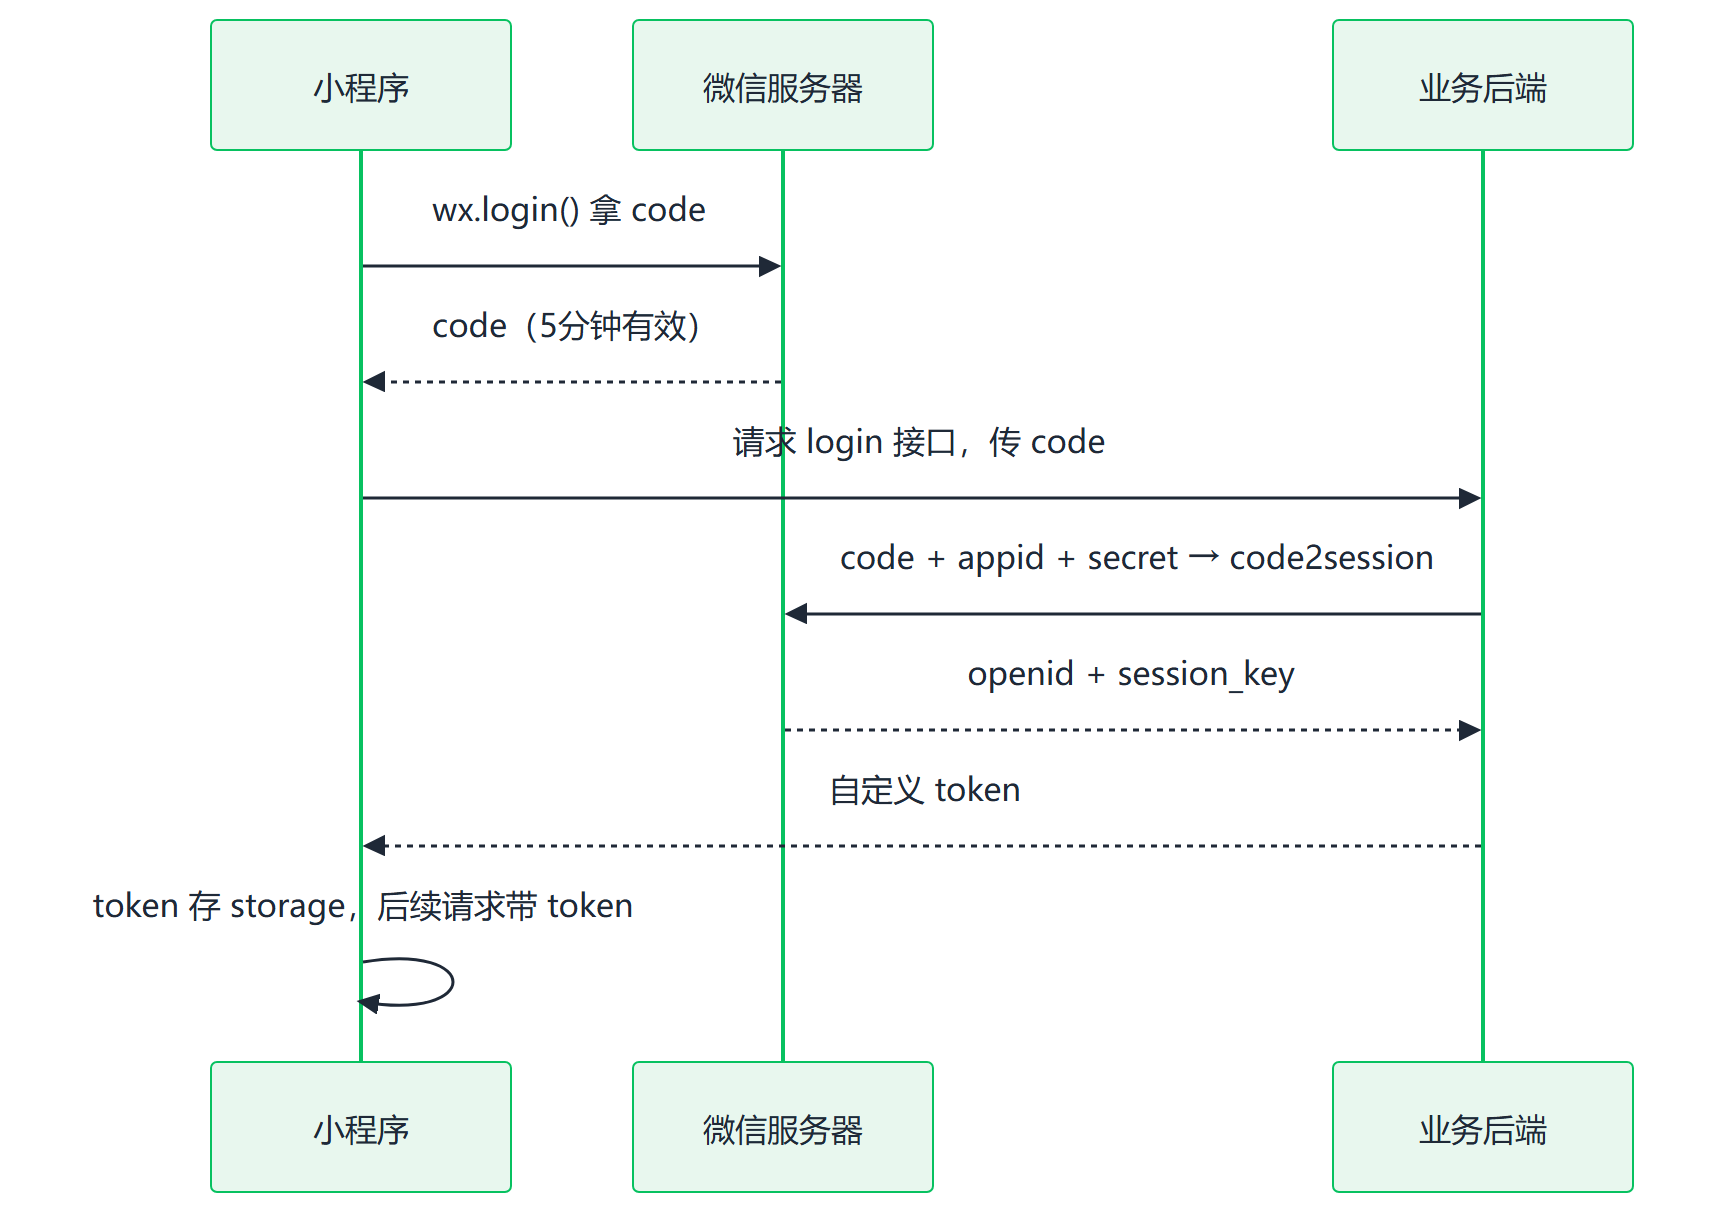
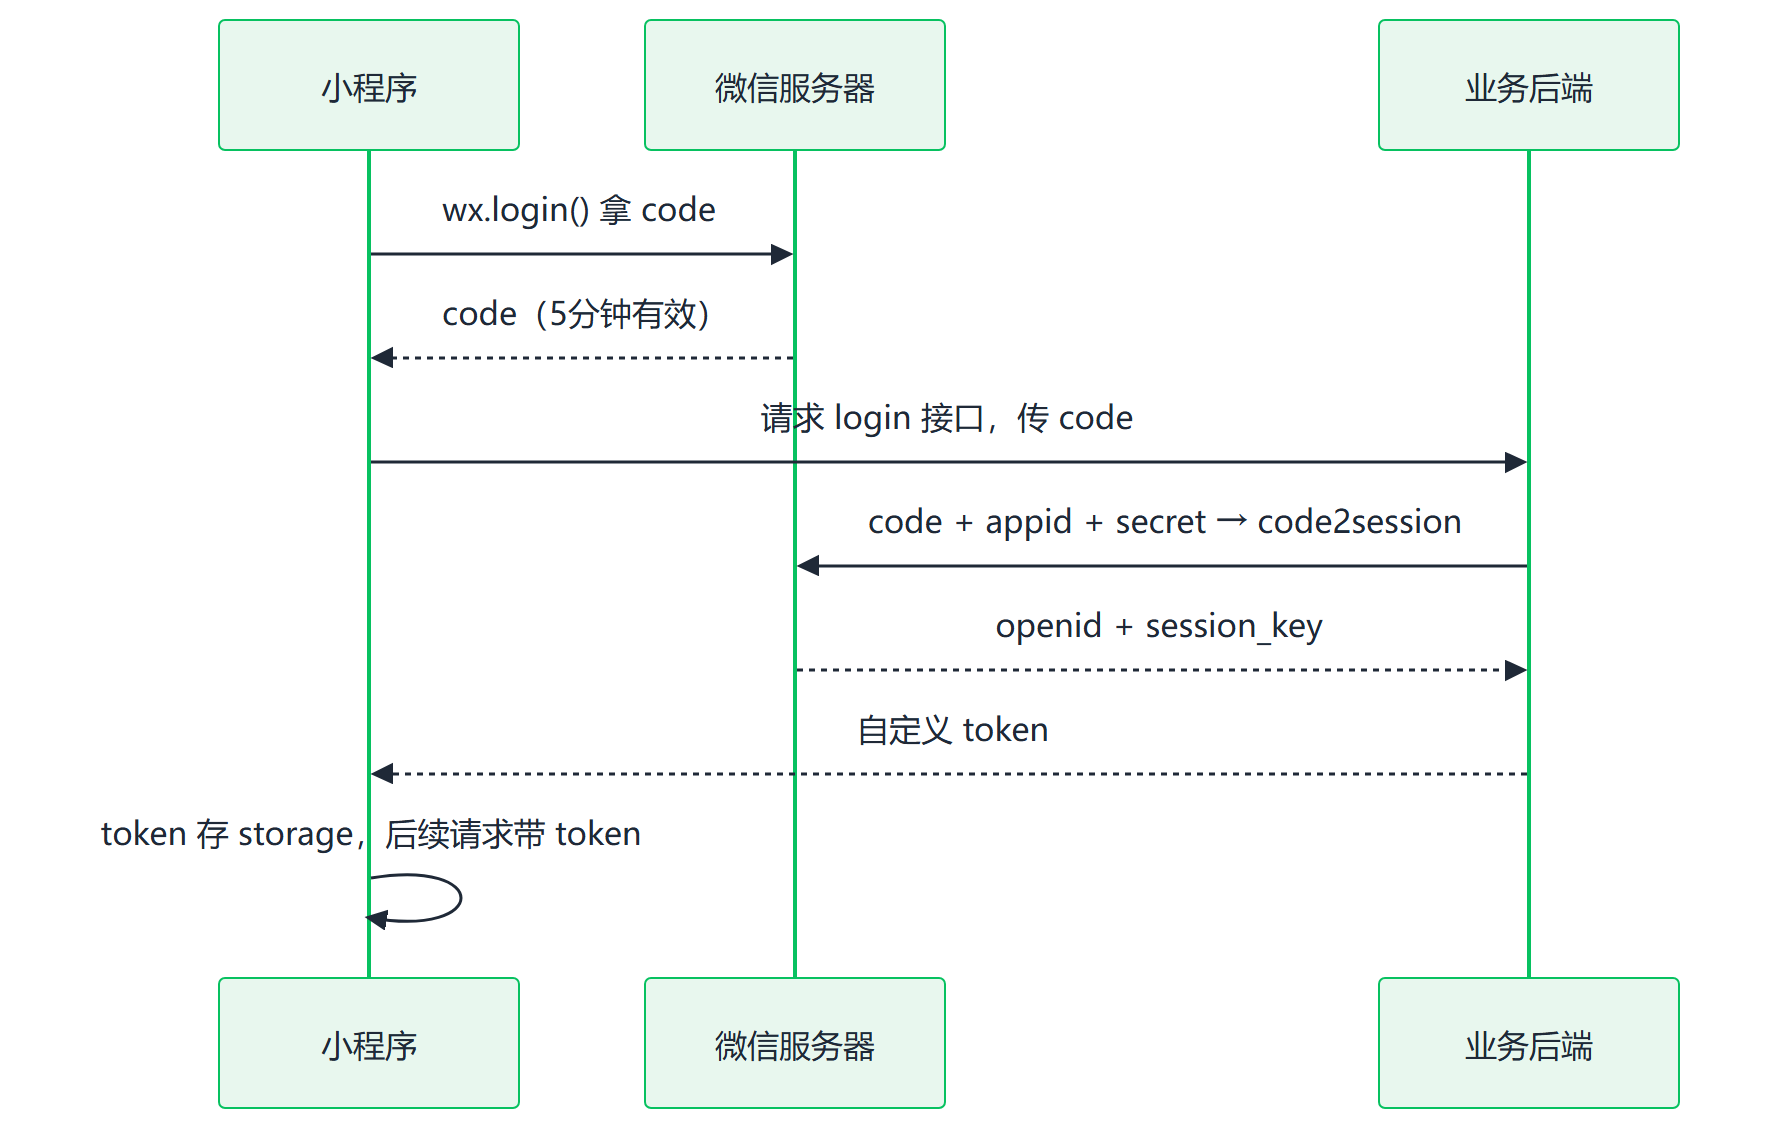
fix: Mermaid 测量字体钉到根级 fontFamily——修 CI 时序图布局漂移

diff --git a/tools/test_gen_mermaid.py b/tools/test_gen_mermaid.py
@@ -117,12 +117,15 @@ class ConfigTest(unittest.TestCase):
     def test_mermaid_主题与字体固定(self):
         self.assertEqual(gm.MERMAID_CONFIG["theme"], "base")
         font = gm.MERMAID_CONFIG["themeVariables"]["fontFamily"]
+        self.assertEqual(font, gm.FONT_FAMILY)
         self.assertIn("Microsoft YaHei", font)
         self.assertFalse(gm.MERMAID_CONFIG["flowchart"]["htmlLabels"])
-        # 时序图的测量字体默认是 trebuchet/verdana/arial 与 Open Sans，
-        # 不是主题字体；runner 上这些字体的可用性不同会让布局漂移。
+        # 时序图 renderer 的 setConf 收到的是根配置：根级 fontFamily 会把
+        # actor/message/note 三个测量字体一起覆盖，sequence.* 下的同名配置
+        # 是死字段。测量字体必须钉在根级，否则又退回 Trebuchet/Verdana 栈。
+        self.assertEqual(gm.MERMAID_CONFIG["fontFamily"], gm.FONT_FAMILY)
         for key in ("actorFontFamily", "noteFontFamily", "messageFontFamily"):
-            self.assertEqual(gm.MERMAID_CONFIG["sequence"][key], font)
+            self.assertNotIn(key, gm.MERMAID_CONFIG["sequence"])
         config_text = json.dumps(gm.MERMAID_CONFIG).lower()
         self.assertNotIn("trebuchet", config_text)
         self.assertNotIn("open sans", config_text)

diff --git a/tools/test_mutations.py b/tools/test_mutations.py
@@ -360,15 +360,21 @@ MUTATIONS = [
     ),
     (
         "gen_mermaid.py",
-        "时序图消息测量退回 Trebuchet/Verdana 默认栈（runner 缺字体即漂移）",
-        "        \"messageFontFamily\": FONT_FAMILY,",
-        "        \"messageFontFamily\": '\"trebuchet ms\", verdana, arial, sans-serif',",
+        "根级测量字体缺失（时序图退回 Trebuchet/Verdana 默认栈，runner 缺字体即漂移）",
+        '    "fontFamily": FONT_FAMILY,\n',
+        "",
     ),
     (
         "gen_mermaid.py",
-        "时序图角色测量退回 Open Sans 默认栈（runner 字体不同即漂移）",
-        "        \"actorFontFamily\": FONT_FAMILY,",
-        "        \"actorFontFamily\": '\"Open Sans\", sans-serif',",
+        "根级测量字体改成固定 Arial（字体栈被绕开时毫无察觉）",
+        '    "fontFamily": FONT_FAMILY,',
+        '    "fontFamily": "Arial",',
+    ),
+    (
+        "gen_mermaid.py",
+        "测量字体放回 sequence 死字段（被根 fontFamily 覆盖，等于没钉）",
+        '    "sequence": {"useMaxWidth": False},',
+        '    "sequence": {"useMaxWidth": False, "messageFontFamily": FONT_FAMILY},',
     ),
     (
         "gen_mermaid.py",

diff --git a/tools/gen_mermaid.py b/tools/gen_mermaid.py
@@ -67,6 +67,10 @@ FONT_FAMILY = ("Microsoft YaHei, PingFang SC, Noto Sans CJK SC, "
                "sans-serif")
 MERMAID_CONFIG = {
     "theme": "base",
+    # 时序图的测量字体取自根级 fontFamily：renderer 的 setConf 收到的是根
+    # 配置，会把 sequence.actorFontFamily 等三个字段整体覆盖。放在根级，
+    # 时序图与流程图才共用同一份固定字体栈。
+    "fontFamily": FONT_FAMILY,
     "themeVariables": {
         "fontFamily": FONT_FAMILY,
         "fontSize": "16px",
@@ -78,14 +82,7 @@ MERMAID_CONFIG = {
         "tertiaryColor": "#FFFFFF",
     },
     "flowchart": {"htmlLabels": False, "curve": "basis"},
-    "sequence": {
-        "useMaxWidth": False,
-        # 时序图的测量字体默认是 Trebuchet MS / Verdana / Arial 与
-        # Open Sans；runner 上这些字体的可用性不同，布局会跟着漂移。
-        "actorFontFamily": FONT_FAMILY,
-        "noteFontFamily": FONT_FAMILY,
-        "messageFontFamily": FONT_FAMILY,
-    },
+    "sequence": {"useMaxWidth": False},
 }
 
 

diff --git a/CHANGELOG.md b/CHANGELOG.md
@@ -28,7 +28,7 @@
 - **视频编码跨 CPU 不确定（CI assets 作业红了一个月的另一半根因）**：libx264 默认按 CPU 特性派发 SIMD，CI runner 与开发机编出不同字节，`video-03/04/06` 自 v2.4.3 起每次比对都被误报「仓库里的是旧版本」。编码参数补 `-x264-params cpu-independent=1`（走纯 C，实测与 `noasm=1` 逐字节相同、只慢 ~15%），13 集全量重渲入库；此后字节只由输入帧与参数决定
 - **Mermaid 生成在 Windows 管道下打印中断**：`gen_mermaid.py` 渲染完成后打印中文资产路径时，CI 的 PowerShell 管道按 cp1252 编码，抛 `UnicodeEncodeError` 并以非零码退出——35 分钟的 assets 作业在逐字节比对前中止。补上与其他工具一致的 stdout UTF-8 重设，并新增 cp1252 子进程回归测试与对应变异项（51/51 捕获）
 - **Mermaid 资产随浏览器版本漂移（CI assets 作业逐字节比对失败）**：同一份图源在本机 Edge 158 与 CI Edge 157 下渲染出的两张时序图 PNG 不同——资产是 157 的产物，CI 每次重渲都被判成「仓库里的是旧版本」。根因是渲染器跟着 runner 自带的浏览器走。现在 Mermaid 固定用 Chrome for Testing 157.0.8103.78——最初试锁的 .79 不在官方 known-good 清单里，`browsers install` 解析版本时直接 404，改用清单内的 .78 才能由 CI 自动安装。首次下载后又在解压阶段报 `Target directory is expected to be absolute`——`browsers install --path .browser` 是相对路径，本机因浏览器已装好只走版本校验，CI 的干净目录才触发；现在由 `tools/mermaid/install-browser.js` 用 `path.join(__dirname, ".browser")` 解析成绝对路径再交给 CLI。`tools/mermaid/package.json` 精确锁定 `@mermaid-js/mermaid-cli@11.4.2` / `mermaid@11.17.2` / `puppeteer@23.11.1`，`package-lock.json` 锁完整依赖树；`gen_mermaid.py` 直接调用本地 `node_modules` 里的 `mmdc`，不再经 `npx` 重新解析版本，运行时还会核对已安装版本与浏览器路径。PDF 打印继续用本机 Edge。新增 9 个用例（共 19）与 5 个变异项（共 51/51 捕获）
-- **Mermaid 布局仍随系统字体版本漂移（锁定 Chrome 后的真正根因）**：登录与支付两张时序图在 CI 仍被判成旧版本，只有发布流程图稳定。探针对比两端产物后确认雅黑文件哈希一致，但 runner 上 Trebuchet MS / Verdana 等字体的可用性与本机不同——时序图的测量字体默认是 `"trebuchet ms", verdana, arial, sans-serif` 与 `"Open Sans", sans-serif`，Mermaid 用它们量文字、再用主题字体绘制，标签换行与坐标因此两端不同。现在在 `MERMAID_CONFIG.sequence` 里把 `actorFontFamily` / `noteFontFamily` / `messageFontFamily` 显式钉到主题字体栈；另加 `tools/mermaid/pin_sans_serif.mjs`，由 `gen_mermaid.py` 通过 `node --import` 预加载，在页面建好后用 CDP `Page.setFontFamilies` 把通用 `sans-serif` 也映射到主题字体栈首个字体（雅黑），两条测量分支得到同一份度量。三张图已按新配置重渲入库。新增 3 个用例（共 22）与 5 个变异项（共 56/56 捕获）
+- **Mermaid 布局仍随系统字体版本漂移（锁定 Chrome 后的真正根因）**：登录与支付两张时序图在 CI 仍被判成旧版本，只有发布流程图稳定。探针对比两端产物后确认雅黑文件哈希一致，差异来自测量字体：runner 上 Trebuchet MS / Verdana / Open Sans 的可用性与本机不同，Mermaid 用它们量文字、再用主题字体绘制，标签换行与坐标因此两端不同。第一版修复把字体钉在 `MERMAID_CONFIG.sequence` 的 `actorFontFamily` / `noteFontFamily` / `messageFontFamily`，CI 仍红——时序图 renderer 的 `setConf` 收到的是**根配置**，只要根级 `fontFamily` 存在（默认就是 Trebuchet 栈）就会把这三个字段整体覆盖，sequence 下的同名配置是死字段。现在改为钉根级 `fontFamily`（与主题字体同一栈），sequence 只保留 `useMaxWidth`；另加 `tools/mermaid/pin_sans_serif.mjs`，由 `gen_mermaid.py` 通过 `node --import` 预加载，在页面建好后用 CDP `Page.setFontFamilies` 把通用 `sans-serif` 也映射到主题字体栈首个字体（雅黑），两条测量分支得到同一份度量。登录与支付两张图已按新配置重渲入库（1780×1130 / 2610×1174），流程图不受影响。新增 3 个用例（共 22）与 6 个变异项（共 57/57 捕获）
 
 ### 改进
 
